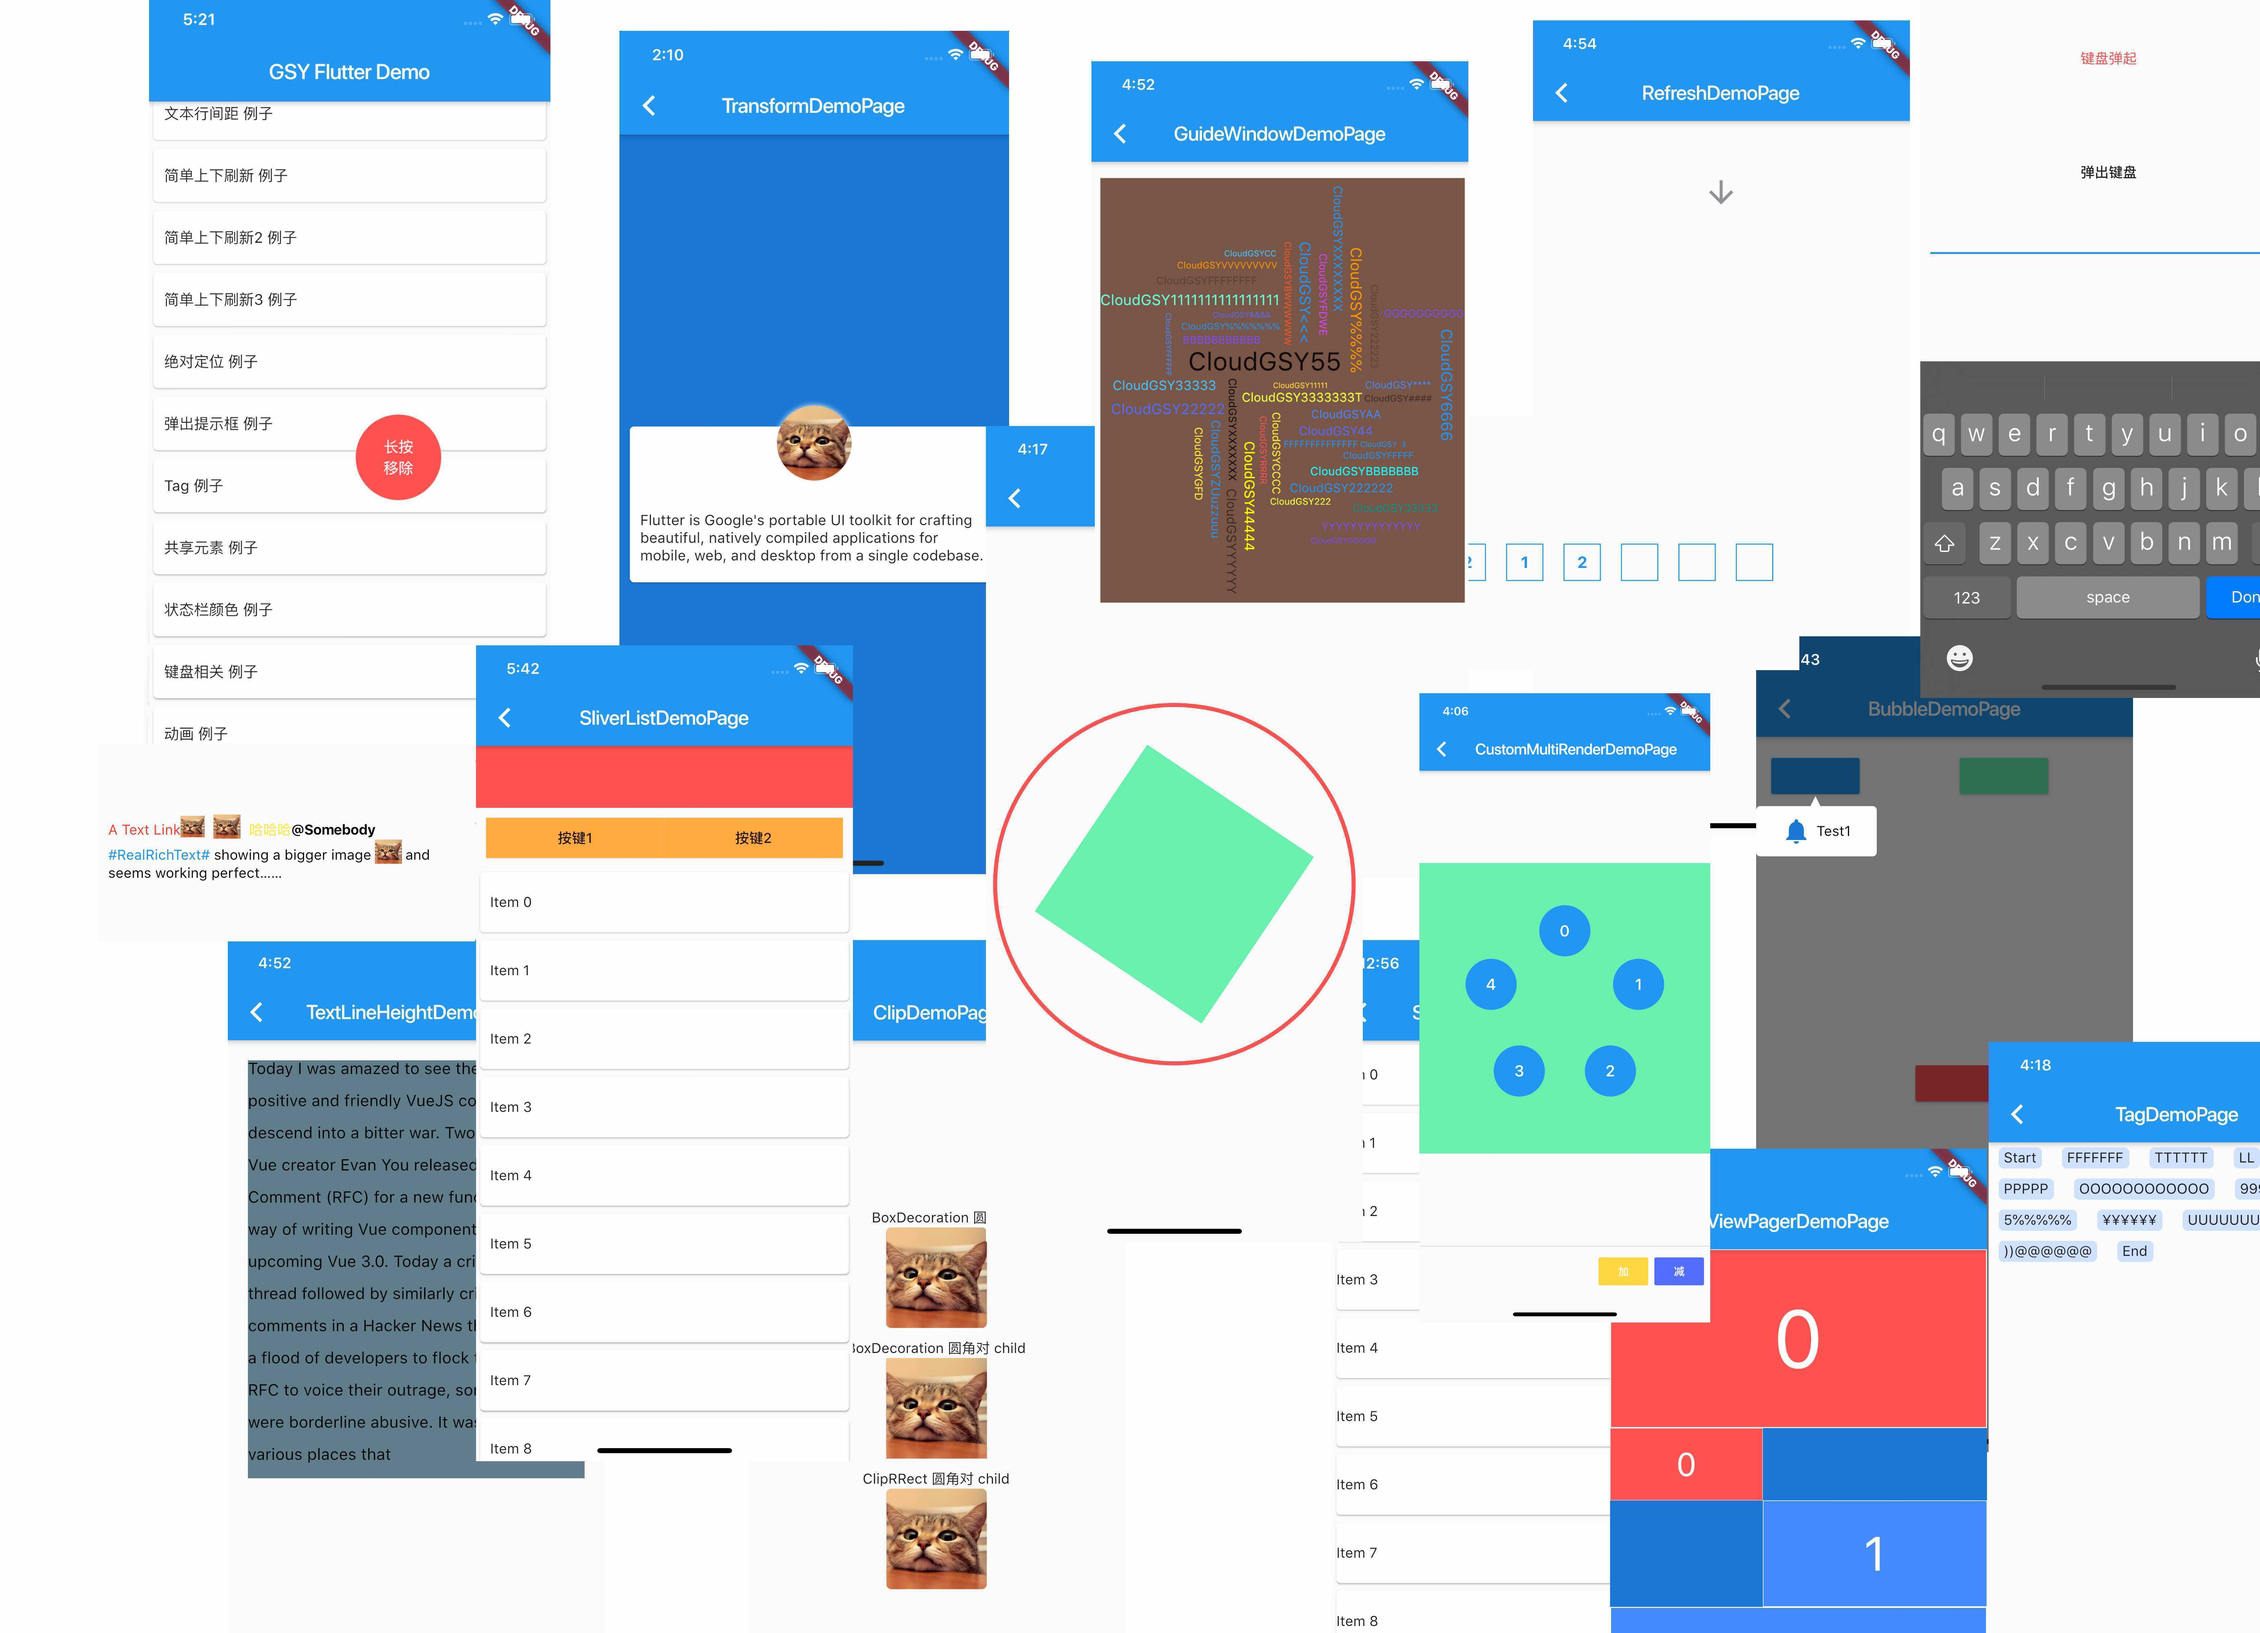
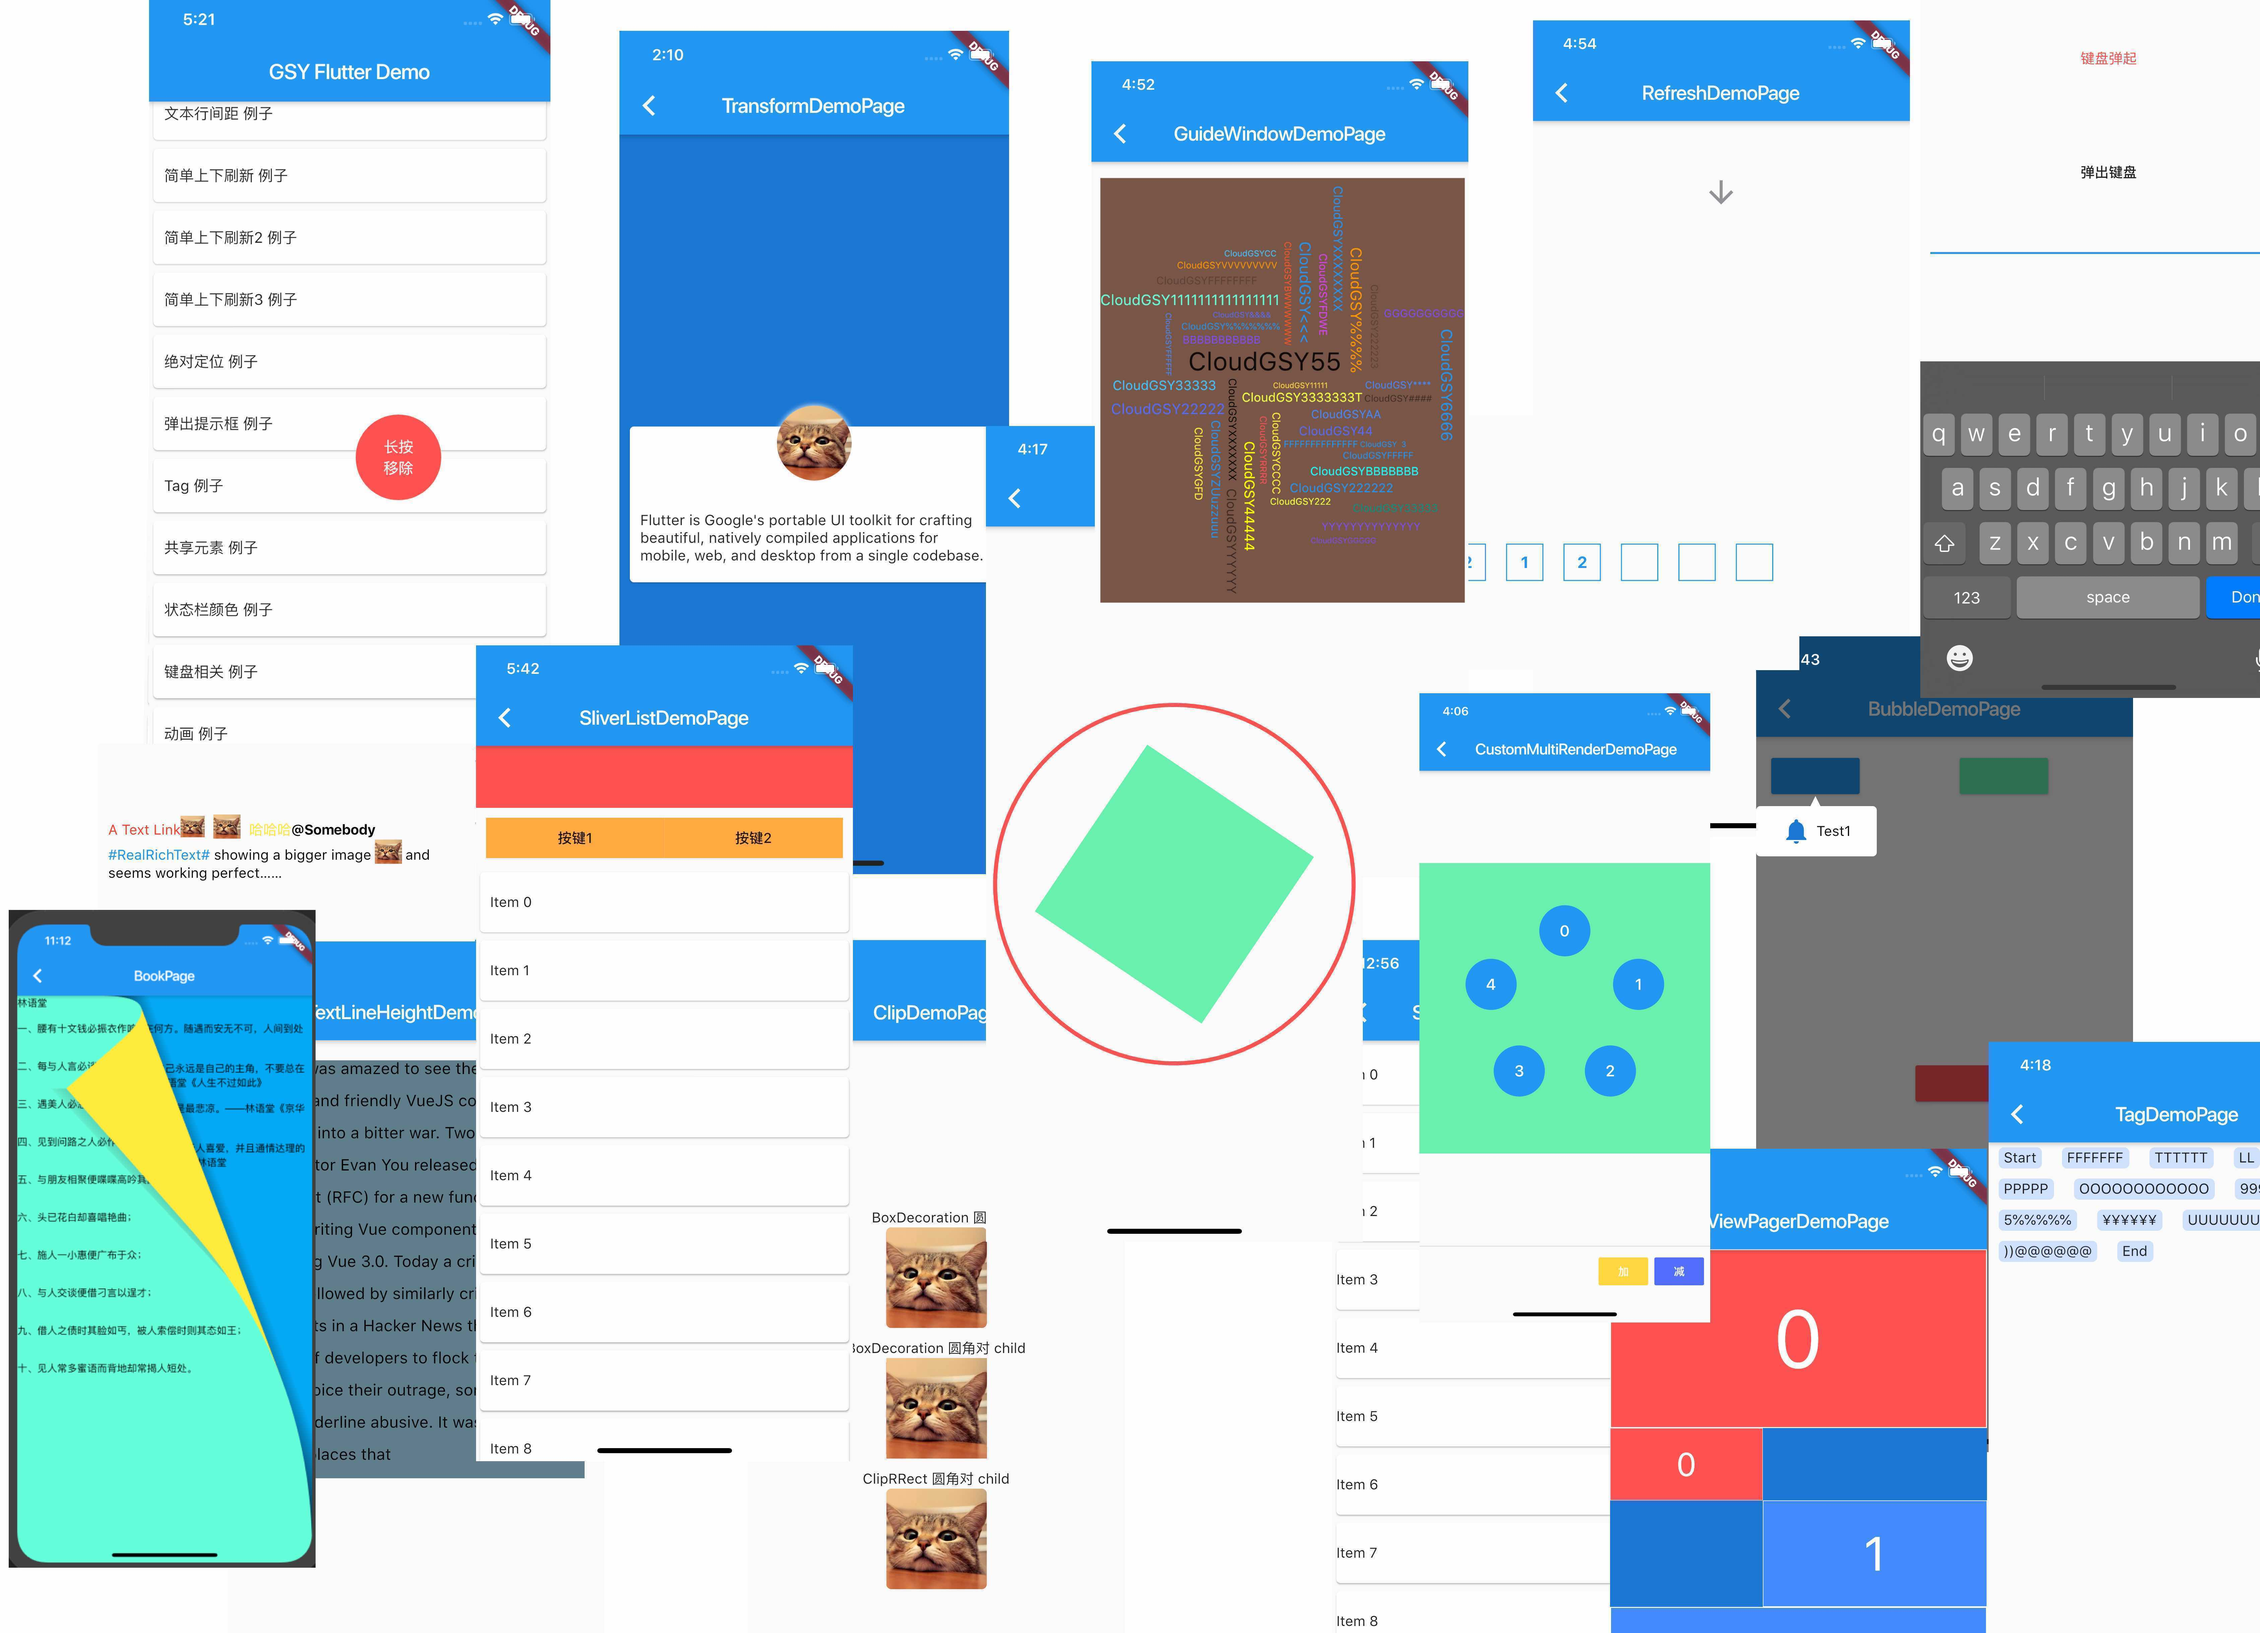
readme

Changed region(s): [[0.0, 0.5299, 0.1556, 0.9664]]

diff --git a/README.md b/README.md
@@ -40,6 +40,8 @@
 - **自定义布局云词图 例子**
 - **列表停靠 例子**
 - **高斯模糊 例子**
+- **多Tab动画列表 例子**
+- **仿真翻页 例子**
 
 
 ![](demo.jpg)
@@ -50,12 +52,11 @@
 
 * ### [Flutter 完整实战实战系列文章专栏](https://juejin.im/collection/5db25bcff265da06a19a304e)
 * ### [Flutter 番外的世界系列文章专栏](https://juejin.im/collection/5db25d706fb9a069f422c374)
-* ### [全网最全 Flutter 与 React Native 深入对比分析](https://juejin.im/post/5d0bac156fb9a07ec56e7f15)
-* ### [Flutter 番外篇之面试知识点集锦](https://juejin.im/post/5cd9875ae51d453d022cb662)
-* ### [Flutter 开发实战与前景展望 - RTC Dev Meetup](https://juejin.im/post/5ce7ddf95188257a2b1eac8a)
 * ### [目前各种主流状态管理演示Demo](https://github.com/CarGuo/state_manager_demo)
 
 ----
+
+- ## [Flutter Github客户端](https://github.com/CarGuo/gsy_github_app_flutter) 
 
 - ## [Flutter 完整开发实战详解 Gitbook 预览下载](https://github.com/CarGuo/GSYFlutterBook)
 
